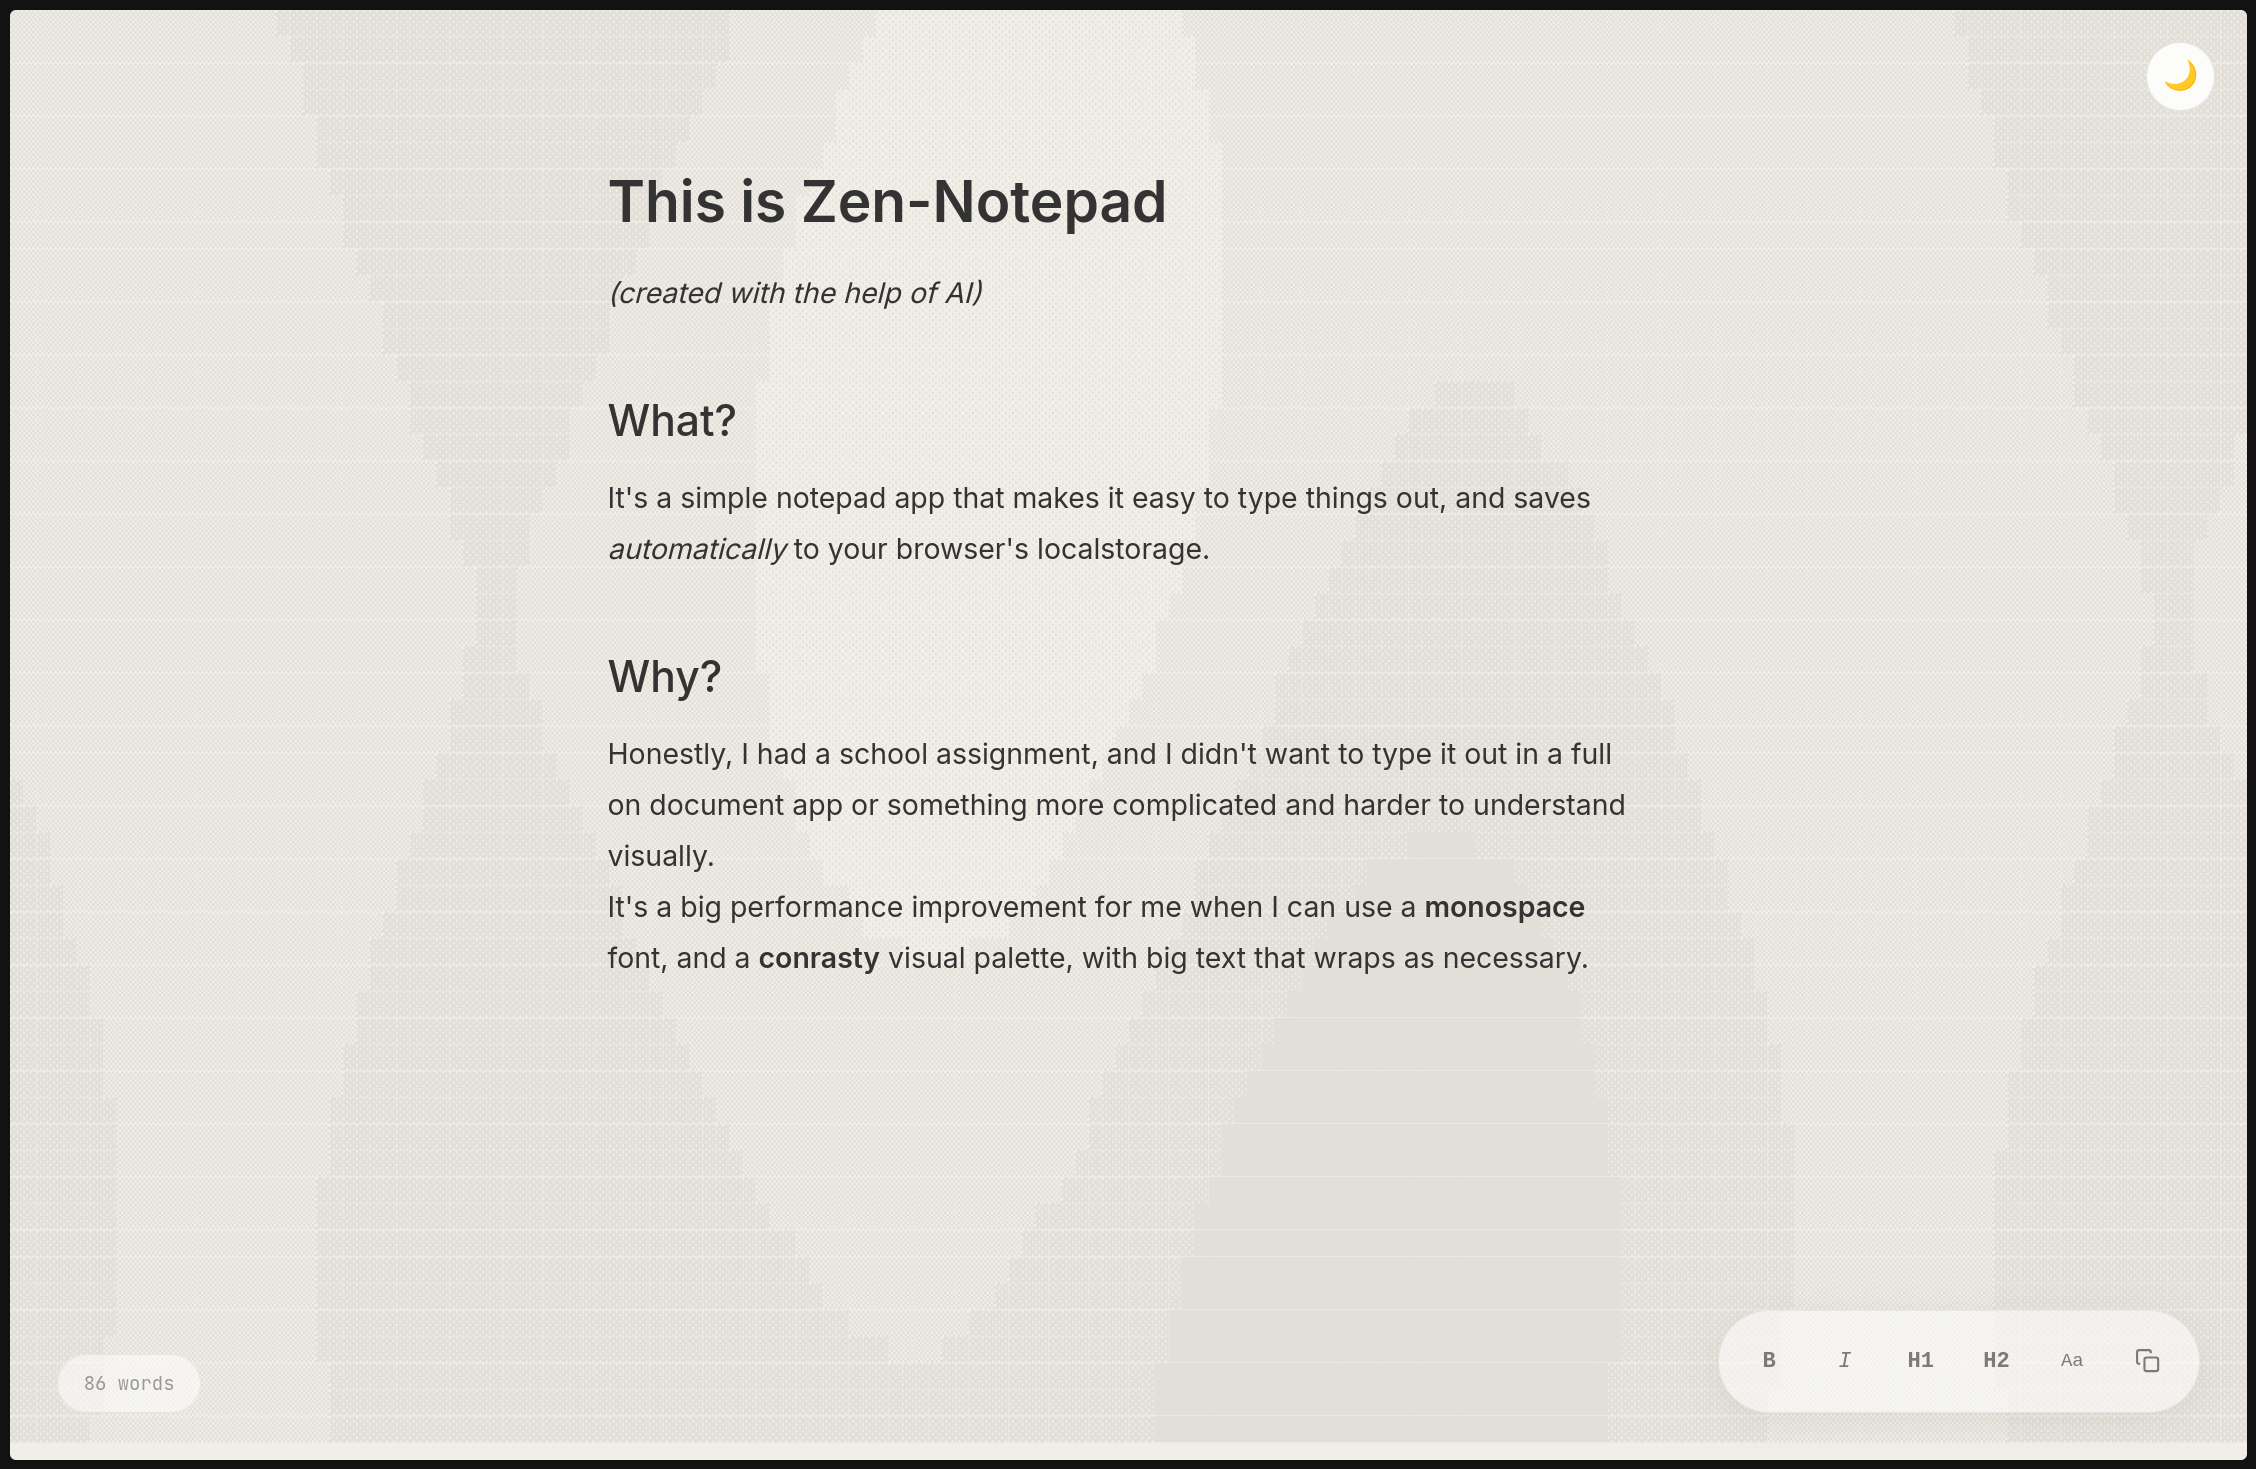
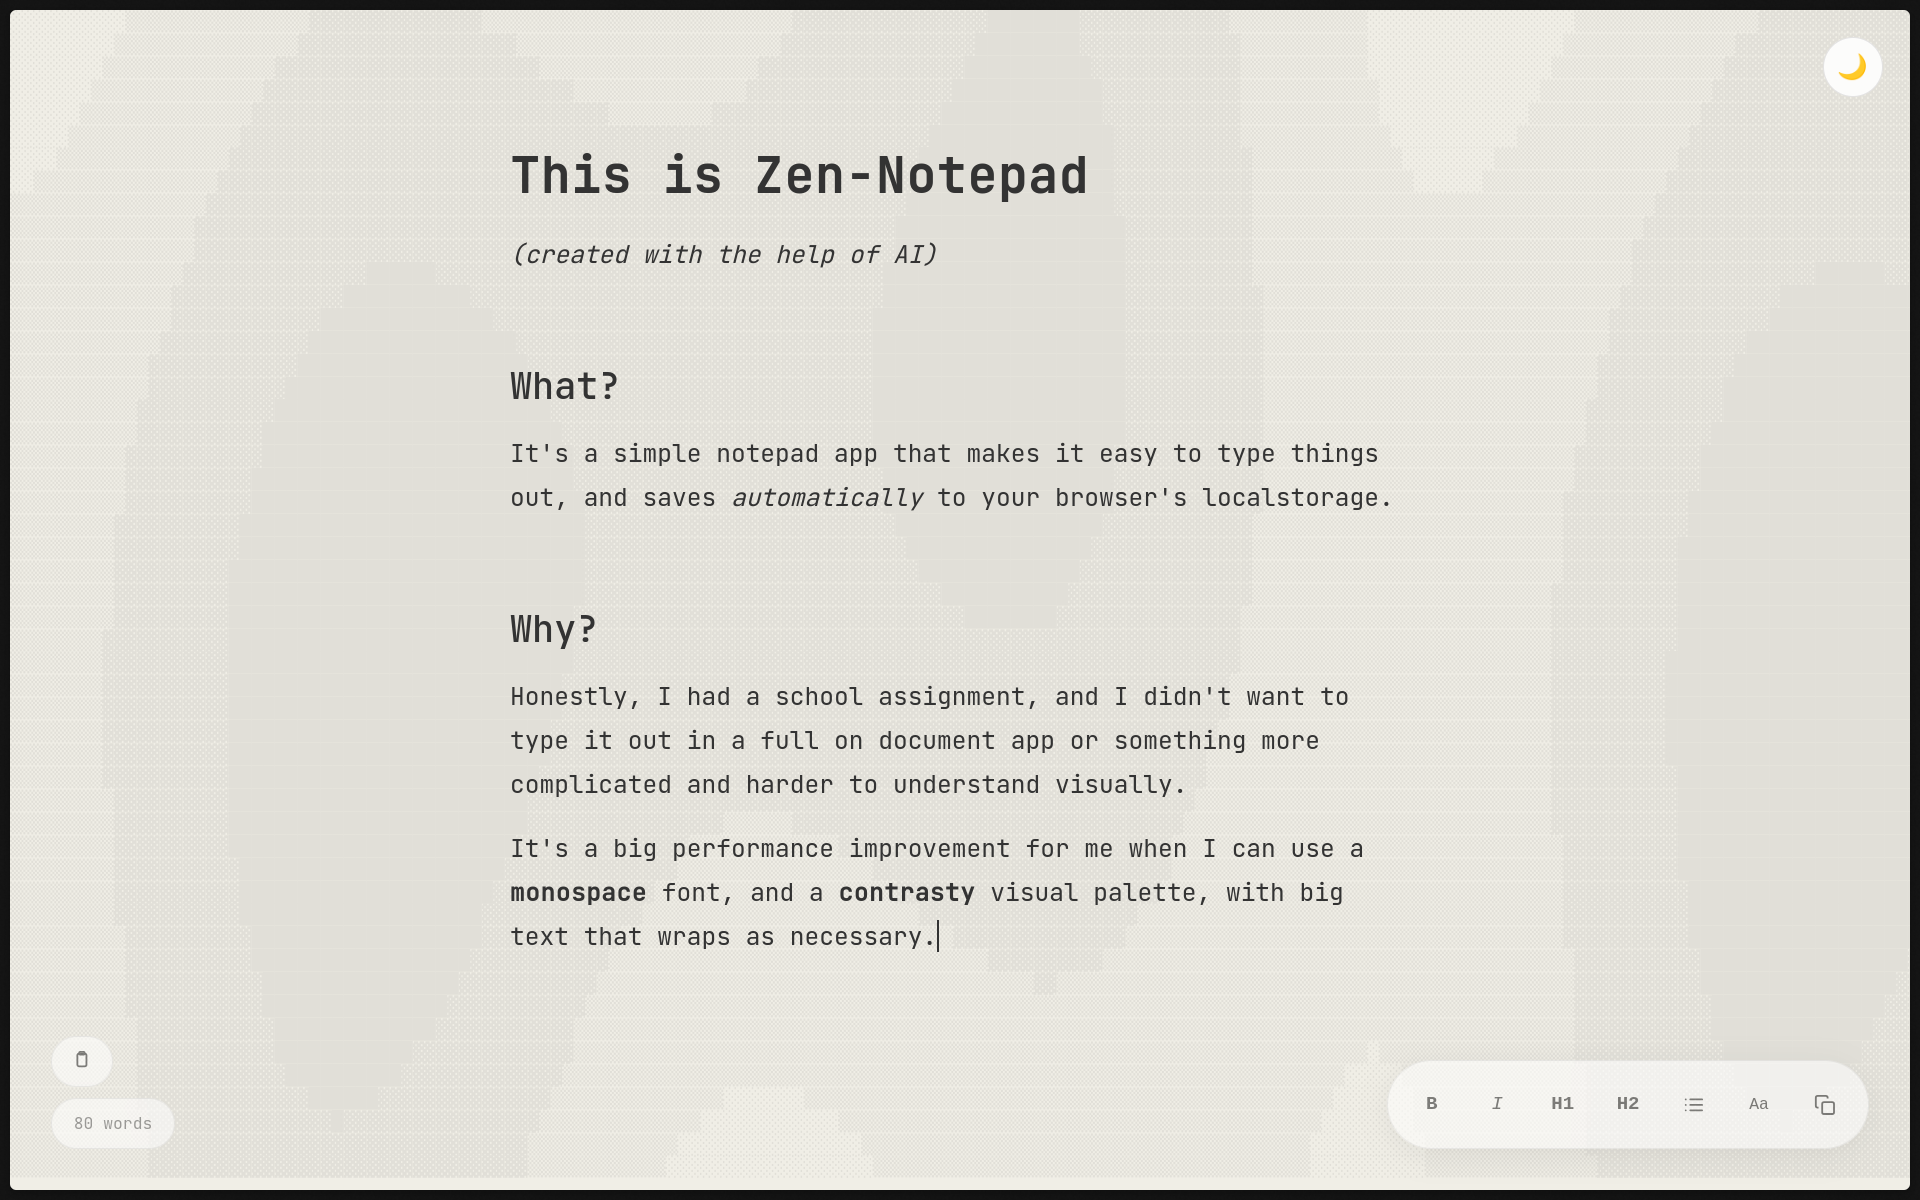
Update README features list and refresh screenshots
- Add toolbar active-state indicators to features list
- Add bullet lists and horizontal rules to formatting tools list
- Refresh light and dark theme screenshots

diff --git a/README.md b/README.md
@@ -21,7 +21,8 @@ respects the `prefers-reduced-motion` system setting.
 
 - **Contenteditable** interface for natural writing
 - **Three font options**: Sans (Inter), Serif (Cormorant Garamond), Mono (JetBrains Mono)
-- **Formatting tools**: Bold, Italic, H1, H2 headings
+- **Formatting tools**: Bold, Italic, H1, H2 headings, bullet lists, horizontal rules
+- **Toolbar active-state indicators**: Buttons light up to show when the cursor is in a bold, italic, heading, or list context — no need to guess what formatting is applied
 - **Tab key support**: Inserts 4 spaces for indentation
 
 ### 📋 Markdown Export & Import